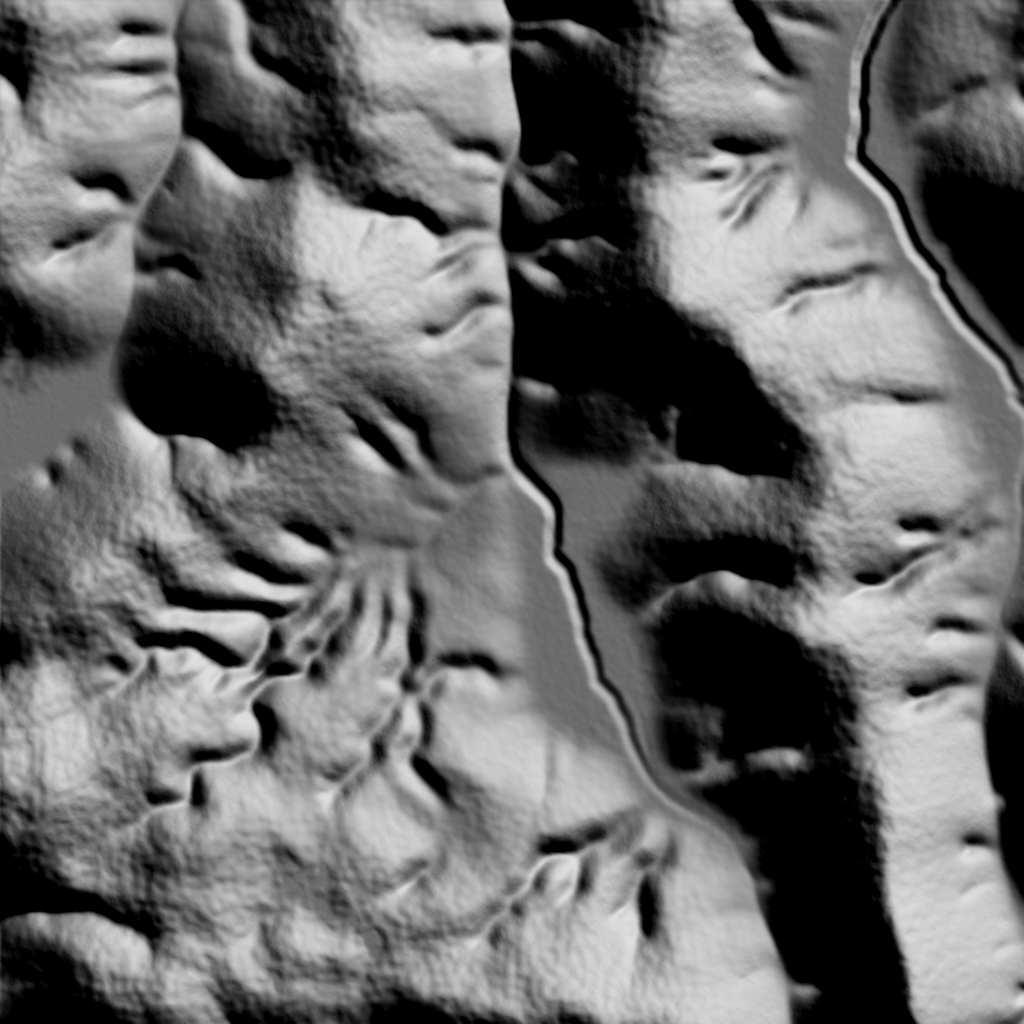
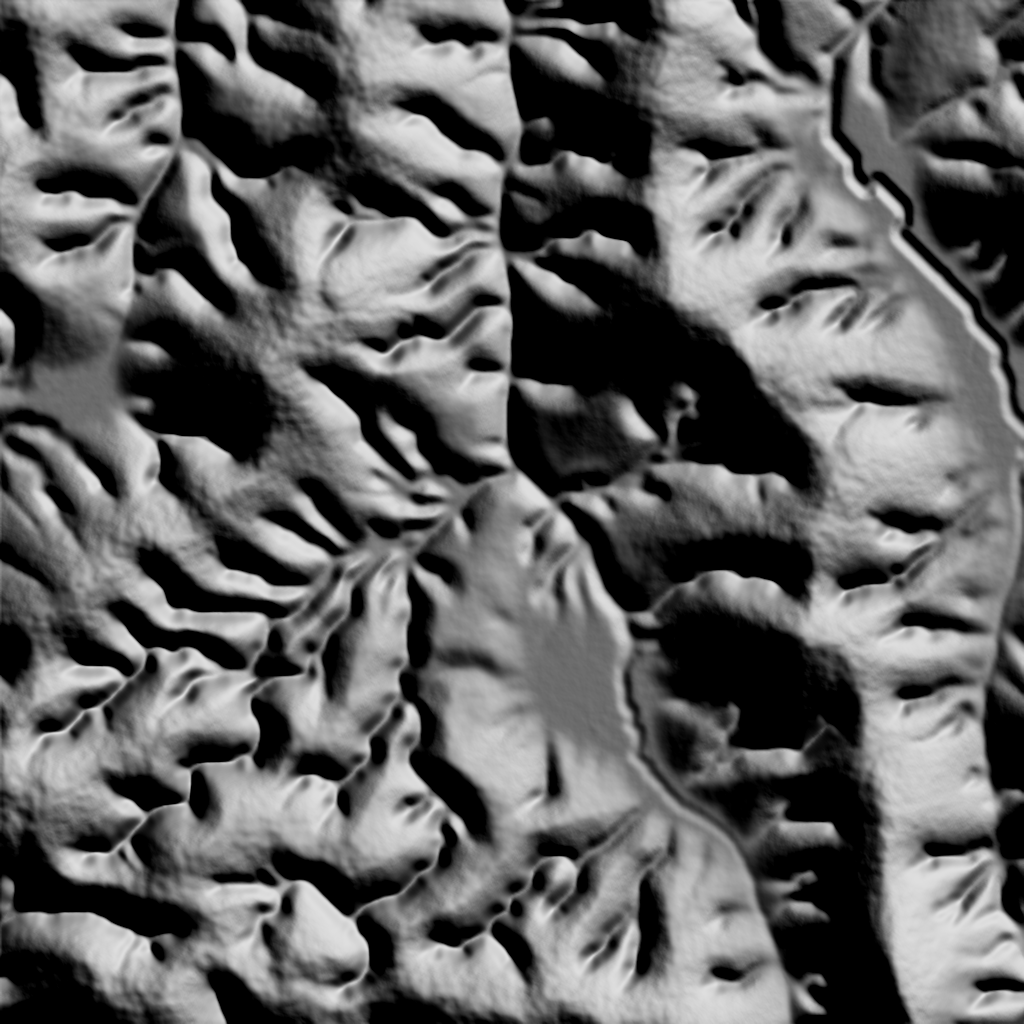
LG-076: Mountains erosion incision 1.8 with the S1 settings (D211, Mike chose A); T6b waiver, T11 checks carving

diff --git a/tests/run_tests.py b/tests/run_tests.py
@@ -808,7 +808,7 @@ def _t14():
     return f"closed, {n:,} faces in {dt:.2f} s; mouth {w:.1f} x {h:.1f} m (set 12 x 6), flat floor, {pts[:, 1].max():.0f} m deep; chamber, drop, ramp, rubble, seed, Reset, presets work"
 
 
-@test("T11", "Erosion lowers steep slopes")
+@test("T11", "Erosion carves Mountains steeper as it rises")
 def _t11():
     fresh_scene()
     ob = add("mountains")
@@ -822,7 +822,8 @@ def _t11():
         z = p[:n * n, 2].reshape(n, n)
         gy, gx = np.gradient(z, ob.lg.size_x / (n - 1))
         out.append(float(np.percentile(np.degrees(np.arctan(np.hypot(gx, gy))), 99)))
-    check(out[1] < out[0] and out[2] <= out[1] + 0.5, f"steepest slopes should drop as erosion rises: {[round(v, 1) for v in out]}")
+    # D211 (Mike, LG-076): incision 1.8 cuts V valleys and steep walls, so the steepest slopes rise with erosion (they fell at 0.5).
+    check(out[0] < out[1] <= out[2] + 0.5, f"steepest slopes should rise as erosion carves: {[round(v, 1) for v in out]}")
     return "99th-percentile slope " + " -> ".join(f"{v:.1f}" for v in out) + " deg at Erosion 0 / 0.5 / 1"
 
 

diff --git a/tests/lidar_check.py b/tests/lidar_check.py
@@ -268,7 +268,10 @@ def bands(real, got):
 # Waived until a later milestone, each with its decision. Still measured and reported.
 WAIVED = {"canyon": {"h_mid"},  # D52: mid-scale (16-256 m) roughness is drainage, built with erosion in M3
           # D73, Mike at the M2 gate: waived after 8 realism passes; still measured and reported.
-          "riverbed": {"spikes"}, "volcano_caldera": {"slope50", "s64", "spikes"}}
+          "riverbed": {"spikes"}, "volcano_caldera": {"slope50", "s64", "spikes"},
+          # D211, Mike (LG-076, board c190 middle column): incision 1.8 for the carved look; rougher at 64 m than the
+          # smooth Sierra granite, and a 41 m valley rhythm, both accepted.
+          "mountains": {"s64", "spikes"}}
 failed = []
 for key, row in report.items():
     bad = [b for b in bands(row["real"], row["ours"]) if b not in WAIVED.get(key, ())]

diff --git a/docs/DECISIONS.md b/docs/DECISIONS.md
@@ -214,3 +214,4 @@ Choices we made and why, so we don't relitigate them. Newest at the bottom. To r
 | D208 | 2026-11-11 | Models before materials (Mike): the realism review focuses on the landscape shapes only, across all 13 types (caves out), judged in clay under good light. No material work for other types until the model gap is closed; then materials are re-evaluated. The material-side gaps (close-up grass scale, 18 texture reads for rock) wait for that | The Mountains material spike showed the shapes fall apart once textured; building materials for every type on weak shapes would be wasted | Review shapes and materials together; build materials for all types now |
 | D209 | 2026-11-11 | Model realism tickets (Mike, after the realism review docs/REVIEW-realism-2026-11.md and boards docs/realism/c186_*): the review's solutions become LG-075 to LG-083 in a new phase B2 Model realism, in its order of lift: mask fix A (LG-075), erosion retune with Mike picking incision 1.2/1.5/1.8 (LG-076), bedrock breakup in nodes (LG-077), erosion in meters (LG-078), hard-rock map (LG-079), talus and lg_talus with mask fix B (LG-080), finer erosion grid (LG-081), per-type pass (LG-082). Materials come back with LG-083 (re-shoot checkpoint 1, rework checkpoint 2) once LG-075 to LG-077 are in on Mountains | The review found shared causes (weak incision, no rock stage, masks measuring uplift, cell-based steps) that fixing once lifts every type; materials tuned on today's shapes and saturated masks would be redone |
 | D210 | 2026-11-13 | LG-064 Jointed fix merged (Mike, after boards c181, c182, c189): plain mouth ledges, passage pieces placed by the passage's real extent in Y, none hanging (T37 on the review cave at Preview and High, the default and a bent cave). Accepted as they are: 4 specks under 48 m2 (80 m2 in all) that stop short of the floor, and a very short passage into a big chamber getting no passage pieces | Good enough to move on; neither shows at a normal shot distance |
+| D211 | 2026-11-13 | Mountains erosion (Mike, LG-076, boards c187 and c190, middle column A): incision 1.8, channel 0.0003, finish_blur 8, cliff_deg 75, talus_deg 35, soften 0.1. Over 60 deg 17.6% (real Sierra lidar 11.7%, today 3.1%). T6b's 64 m roughness (0.443 vs 0.227) and the 41 m valley rhythm are waived for Mountains; T11 now checks that erosion carves Mountains steeper. Sharp summits are not reachable by erosion settings or Peak Sharpness (the dome is in the base shape): they go to LG-077 and LG-079. Glacial and Canyon's S1 settings move to LG-082 | The carved look Mike picked over the stricter real-data fit |

diff --git a/docs/tickets/LG-076-erosion-carves.md b/docs/tickets/LG-076-erosion-carves.md
@@ -1,6 +1,6 @@
 # LG-076 Retune erosion so it carves (Mountains, Glacial, Canyon)
 Type: feature | Milestone: Model realism | Phase: B2 Model realism | Size: S | Priority: P1
-Status: in progress | Lane: main | Needs Blender: yes | Mike review: yes
+Status: done | Lane: main | Needs Blender: yes | Mike review: yes
 Depends on: LG-075 | Blocks: LG-077, LG-079
 
 ## Why
@@ -26,3 +26,4 @@ Also read docs/tickets/README.md (rules every ticket follows) and docs/CODING.md
 - 2026-11-12 board docs/realism/c187_lg076_incision.png: Mountains, 2 km, High, clay, S1 settings (channel 0.0003, finish_blur 8, cliff_deg 75, talus_deg 35, soften 0.1); columns today | 1.0 | 1.2 | 1.5 | 1.8, rows wide | mid (the highest peak) | top-down. Over 60 deg (real Sierra lidar 11.7%): 3.1 / 11.5 / 13.5 / 15.6 / 17.6%; median slope 34.6 / 36.5 / 37.6 / 39.2 / 40.6 deg. 1.0 added: 1.2 already overshoots at High. Seen: drips hang under the open edges, worse than today; the highest peak stays a dome at every setting (that's LG-077). Blocked on Mike's pick
 - 2026-11-12 Mike picked 1.8 (far right on c187) and asked for sharp tops and sharper mountains overall. Uncommitted in the main checkout: types.json Mountains incision 1.8, channel 0.0003, finish_blur 8, cliff_deg 75, talus_deg 35, soften 0.1. T6 13/13 pass; T6b Mountains FAILS at 1.8: s64 0.443 vs real 0.227 (limit 1.6x) and a 5.4 dB spike at 41 m (a repeating valley comb). 1.2 / 1.5 T6b not yet run (scratch script lidar_inc.py). Edge 'drips' are valley notches: with Base on (default) they read as notches in the side wall, not a defect. Summits: finish_blur 0 and soften 0 leave the dome (cause is the shape, not erosion); Peak Sharpness 100 makes one spike and flattens the rest (median 41 -> 19 deg). Sharp tops go to LG-077/LG-079. Next: T6b at 1.2/1.5, Mike re-decides
 - 2026-11-13 Mike chose A (c190 middle column): incision 1.8 with the S1 channel, blur and softening, accepting the 41 m valley rhythm. T6b waiver for Mountains s64 + spikes in lidar_check.py (D211 to write); T6 13/13, T6b 14/14. Uncommitted in the main checkout: types.json, tests/lidar_check.py, the two realism reports, ours_mountains.png, docs/realism/c190_lg076_option_b.png. Full suite with 1.8 stopped at Mike's pause (no result); next: run it, commit, log D211, move the Glacial/Canyon tuning to LG-082, close
+- 2026-11-13 committed (D211): T6 13/13, T6b 14/14 with the Mountains waiver, full suite 35/36 then T11 updated to D211 and passing. Glacial/Canyon S1 settings moved to LG-082 -> done

diff --git a/docs/TICKETS.md b/docs/TICKETS.md
@@ -112,7 +112,7 @@ Models before materials (D208). Order is the review's, most lift first: masks, e
 | ID | Title | Phase | Milestone | Status | Size | Pri | Lane | Blender | Files | Depends on |
 |---|---|---|---|---|---|---|---|---|---|---|
 | [LG-075](tickets/LG-075-masks-vary.md) | Erosion masks that vary (mask fix A) | B2 Model realism | Realism | done | S | P1 | side | tests only | erosion.py; run_tests.py | - |
-| [LG-076](tickets/LG-076-erosion-carves.md) | Retune erosion so it carves (Mountains, Glacial, Canyon) | B2 Model realism | Realism | blocked | S | P1 | main | yes | types.json; realism.py | LG-075 |
+| [LG-076](tickets/LG-076-erosion-carves.md) | Retune erosion so it carves (Mountains, Glacial, Canyon) | B2 Model realism | Realism | done | S | P1 | main | yes | types.json; realism.py | LG-075 |
 | [LG-077](tickets/LG-077-bedrock-breakup.md) | Bedrock breakup stage on the finished mesh | B2 Model realism | Realism | todo | M-L | P1 | side | yes | nodes.py; types.json; __init__.py; node_groups.blend; run_tests.py | LG-076 |
 | [LG-078](tickets/LG-078-erosion-in-meters.md) | Erosion in meters, the same at Preview and High | B2 Model realism | Realism | todo | M | P2 | side | tests only | erosion.py; run_tests.py | LG-076 |
 | [LG-079](tickets/LG-079-hard-rock-map.md) | Hard-rock map and bedrock structure for Mountains | B2 Model realism | Realism | todo | M | P2 | side | yes | nodes.py; node_groups.blend; run_tests.py | LG-076, LG-078 |

diff --git a/docs/tickets/LG-082-per-type-realism.md b/docs/tickets/LG-082-per-type-realism.md
@@ -22,3 +22,4 @@ Also read docs/tickets/README.md (rules every ticket follows) and docs/CODING.md
 
 ## Log
 - 2026-11-11 created from the realism review (D209)
+- 2026-11-13 from LG-076: also try the S1 settings on Glacial (incision 1.0, soften 0.2) and Canyon (finish_blur 8), each with a board for Mike
